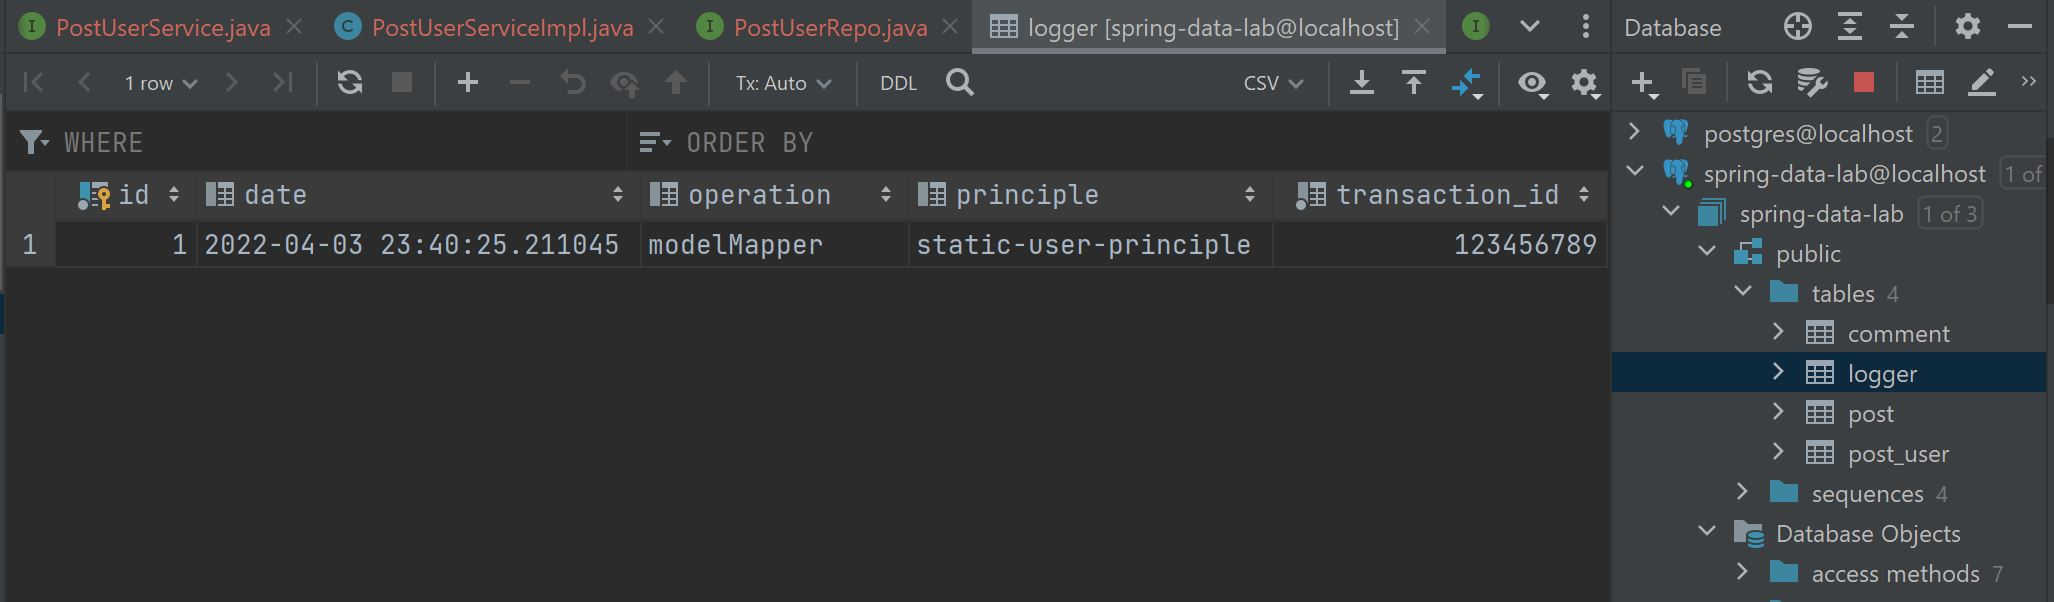
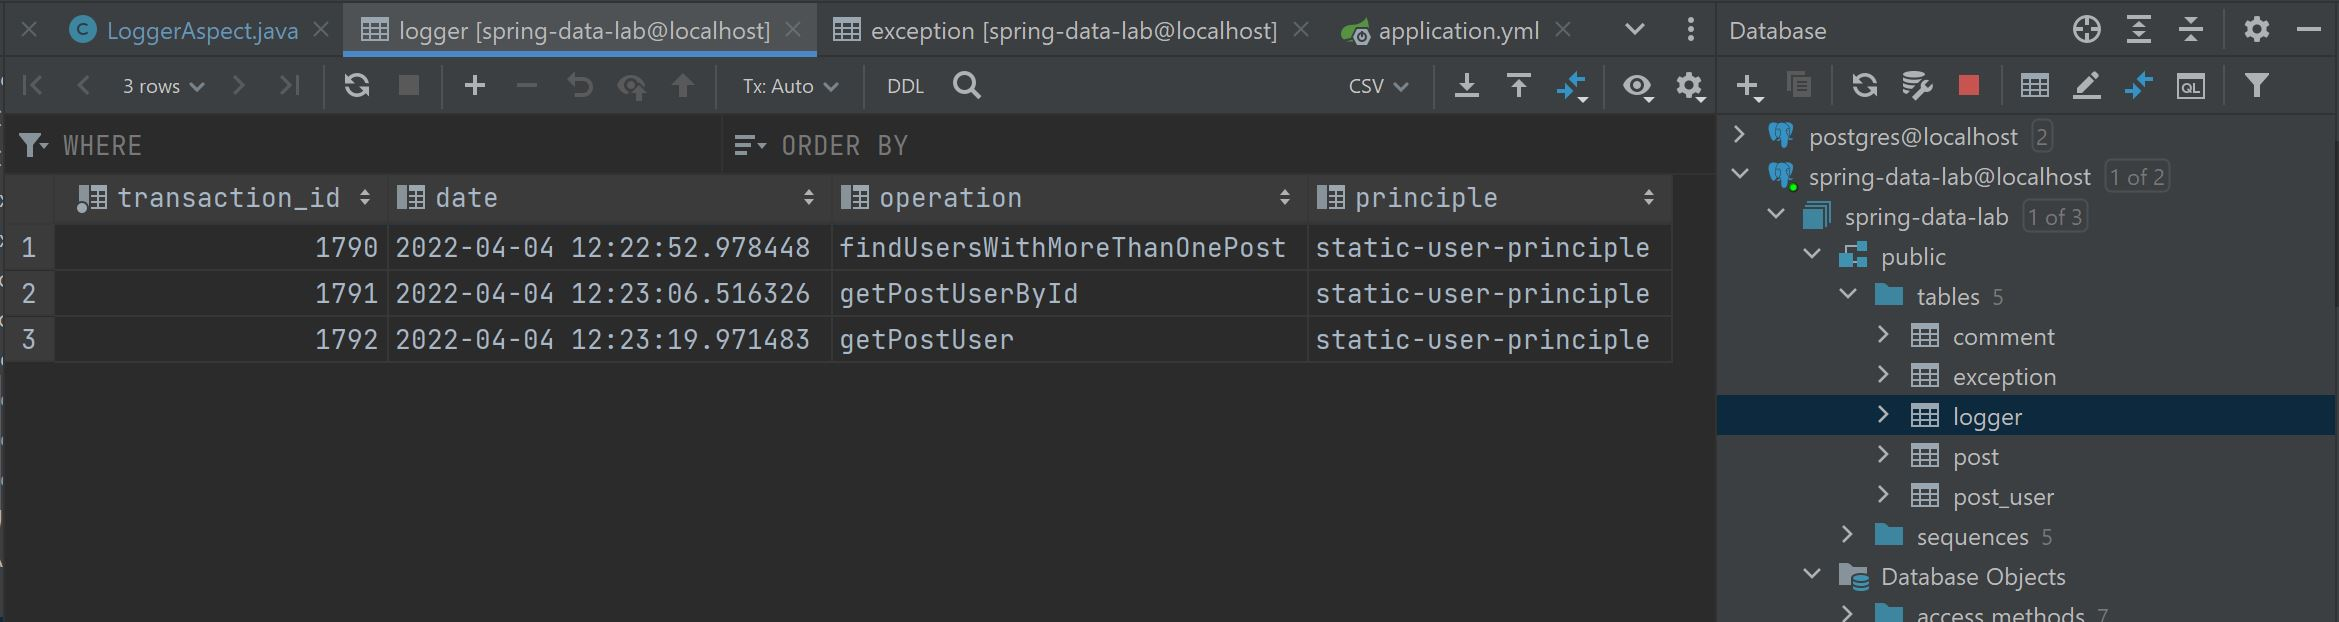
lab4 update

diff --git a/miu-study/cs545-WAA/lab4/lab4/src/main/java/miu/edu/lab/aspect/LoggerAspect.java b/miu-study/cs545-WAA/lab4/lab4/src/main/java/miu/edu/lab/aspect/LoggerAspect.java
@@ -23,8 +23,18 @@ public class LoggerAspect {
     @Autowired
     ExceptionService exceptionService;
 
+    /**
+     * Note: There is an error if I try log all execution in project.
+     * Servlet.service() for servlet [dispatcherServlet] in context with path [] threw exception [Handler dispatch failed; nested exception is java.lang.StackOverflowError] with root cause java.lang.StackOverflowError: null
+     * Seem the error related to framework level
+     * Due to limited capability and time on spring framework
+     * I have only logged all execution inside controller folder for this lab
+     *
+     */
+
     //@Pointcut("within(miu.edu.lab..*)")
-    @Pointcut("execution(* miu.edu.lab.*.*(..))")
+    //@Pointcut("execution(* miu.edu.lab.*.*(..))")
+    @Pointcut("execution(public * miu.edu.lab.controller.*.*(..))")
     public void logAllOperations(){//make sure this map to advice
 
     }
@@ -50,6 +60,7 @@ public class LoggerAspect {
         newEx.setExceptionType(ex.getMessage());
         exceptionService.save(newEx);
         //Note: added fake error in PostUserController getPostUsers
+        //try getPostUsers to see exception logged to db
         System.out.println("=============================================");
         System.out.println("**** Logged Thrown Exception from method : " + joinPoint.getSignature().getName());
         System.out.println("=============================================");

diff --git a/miu-study/cs545-WAA/lab4/lab4/src/main/java/miu/edu/lab/domain/Exception.java b/miu-study/cs545-WAA/lab4/lab4/src/main/java/miu/edu/lab/domain/Exception.java
@@ -1,8 +1,6 @@
 package miu.edu.lab.domain;
 
-import lombok.AllArgsConstructor;
-import lombok.Data;
-import lombok.NoArgsConstructor;
+import lombok.*;
 
 import javax.persistence.Entity;
 import javax.persistence.GeneratedValue;
@@ -10,7 +8,9 @@ import javax.persistence.GenerationType;
 import javax.persistence.Id;
 import java.time.LocalDateTime;
 
-@Data
+@Setter
+@Getter
+@ToString
 @AllArgsConstructor
 @NoArgsConstructor
 @Entity
@@ -23,4 +23,11 @@ public class Exception {
     private String operation;
     private String exceptionType;
 
+    public Exception(LocalDateTime date, String principle, String operation, String exceptionType) {
+
+        this.date = date;
+        this.principle = principle;
+        this.operation = operation;
+        this.exceptionType = exceptionType;
+    }
 }

diff --git a/miu-study/cs545-WAA/lab4/lab4/src/main/java/miu/edu/lab/domain/Logger.java b/miu-study/cs545-WAA/lab4/lab4/src/main/java/miu/edu/lab/domain/Logger.java
@@ -1,8 +1,6 @@
 package miu.edu.lab.domain;
 
-import lombok.AllArgsConstructor;
-import lombok.Data;
-import lombok.NoArgsConstructor;
+import lombok.*;
 
 import javax.persistence.Entity;
 import javax.persistence.GeneratedValue;
@@ -11,7 +9,9 @@ import javax.persistence.Id;
 import java.time.LocalDateTime;
 import java.util.Date;
 
-@Data
+@Setter
+@Getter
+@ToString
 @AllArgsConstructor
 @NoArgsConstructor
 @Entity
@@ -25,5 +25,10 @@ public class Logger {
     private String operation;
 
 
+    public Logger(LocalDateTime date, String principle, String operation) {
 
+        this.date = date;
+        this.principle = principle;
+        this.operation = operation;
+    }
 }

diff --git a/miu-study/cs545-WAA/lab4/lab4/src/main/java/miu/edu/lab/domain/Comment.java b/miu-study/cs545-WAA/lab4/lab4/src/main/java/miu/edu/lab/domain/Comment.java
@@ -1,15 +1,15 @@
 package miu.edu.lab.domain;
 
-import lombok.AllArgsConstructor;
-import lombok.Data;
-import lombok.NoArgsConstructor;
+import lombok.*;
 import net.bytebuddy.dynamic.loading.InjectionClassLoader;
 import org.hibernate.annotations.Fetch;
 import org.hibernate.annotations.FetchMode;
 
 import javax.persistence.*;
 
-@Data
+@Setter
+@Getter
+@ToString
 @AllArgsConstructor
 @NoArgsConstructor
 @Entity
@@ -25,5 +25,11 @@ public class Comment {
 
     public Comment(String name) {
         this.name = name;
+    }
+
+    public Comment(String name, Post post) {
+
+        this.name = name;
+        this.post = post;
     }
 }

diff --git a/miu-study/cs545-WAA/lab4/lab4/src/main/java/miu/edu/lab/domain/Post.java b/miu-study/cs545-WAA/lab4/lab4/src/main/java/miu/edu/lab/domain/Post.java
@@ -7,7 +7,9 @@ import org.hibernate.annotations.FetchMode;
 import javax.persistence.*;
 import java.util.List;
 
-@Data
+@Setter
+@Getter
+@ToString
 @AllArgsConstructor
 @NoArgsConstructor
 @Entity

diff --git a/miu-study/cs545-WAA/lab4/lab4/src/main/java/miu/edu/lab/domain/PostUser.java b/miu-study/cs545-WAA/lab4/lab4/src/main/java/miu/edu/lab/domain/PostUser.java
@@ -7,7 +7,9 @@ import org.hibernate.annotations.FetchMode;
 import javax.persistence.*;
 import java.util.List;
 
-@Data
+@Setter
+@Getter
+@ToString
 @AllArgsConstructor
 @NoArgsConstructor
 @Entity
